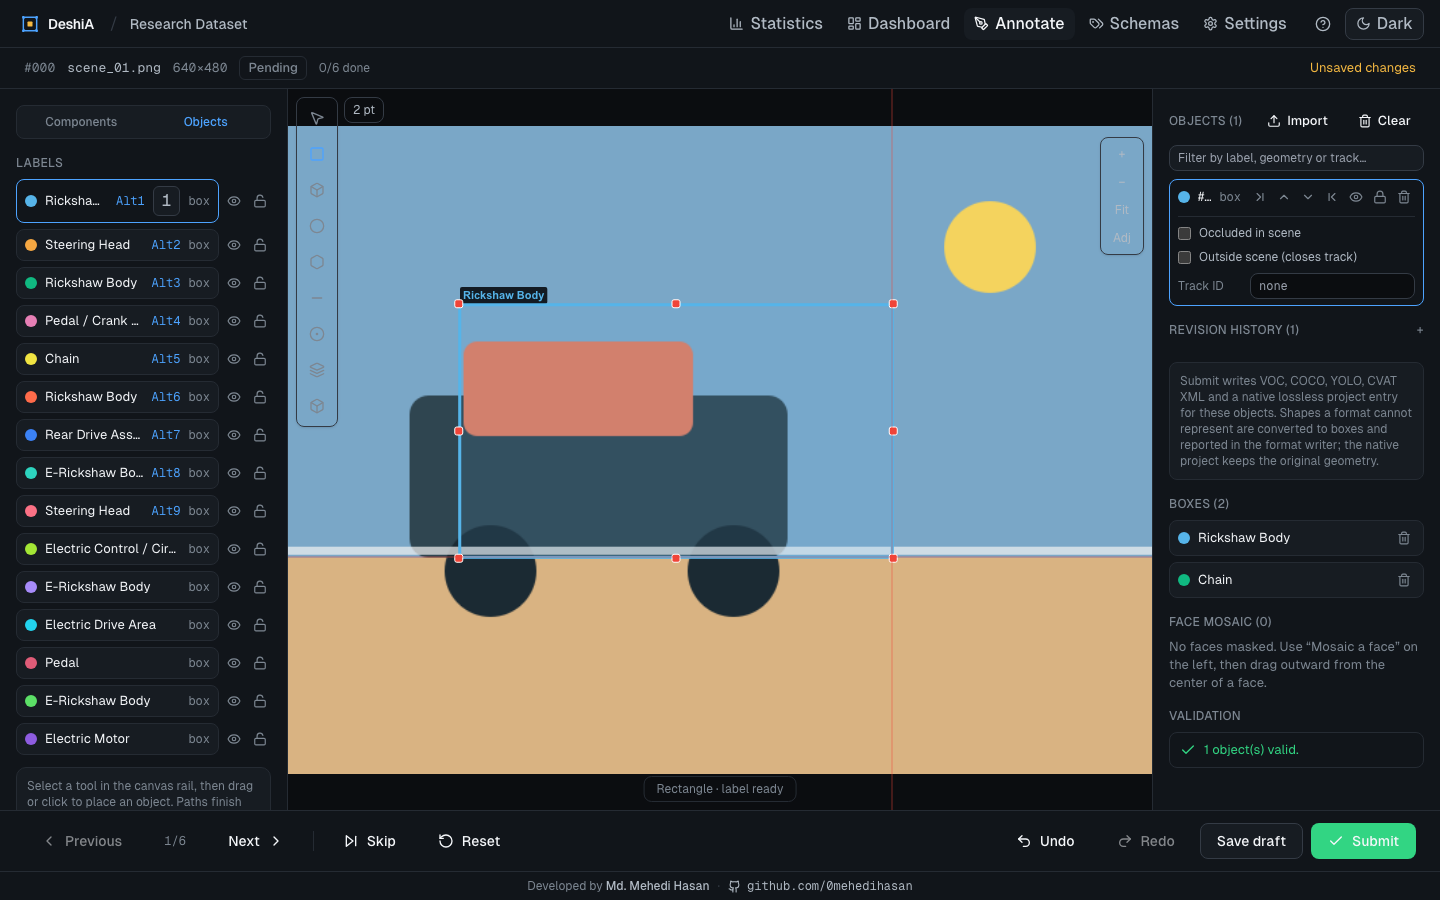
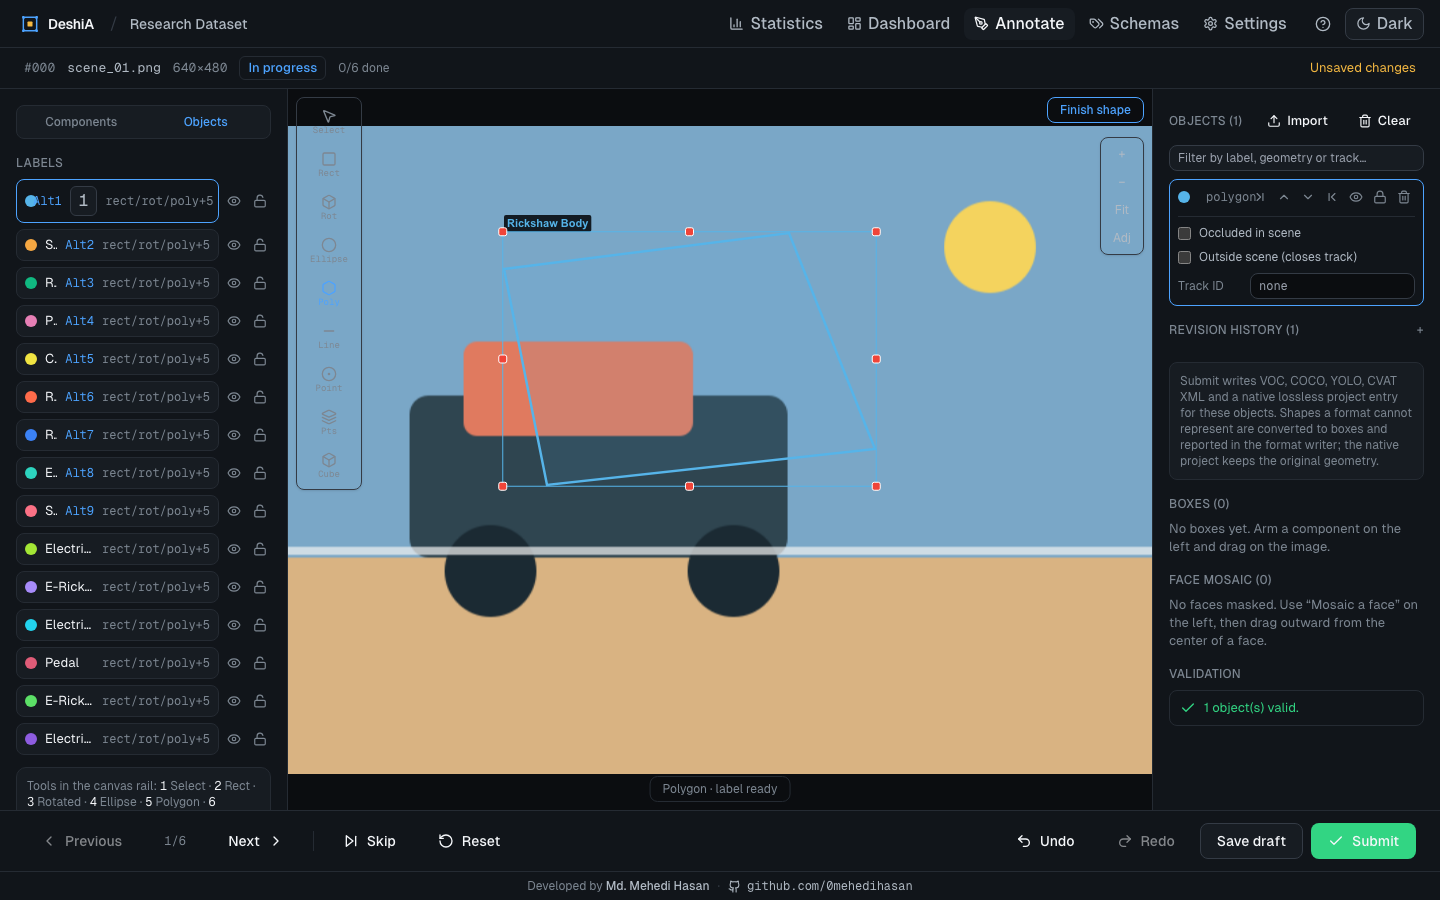
show shape tools and fix polygon drawing

diff --git a/src/features/annotation/annotation-workbench.tsx b/src/features/annotation/annotation-workbench.tsx
@@ -134,17 +134,35 @@ const OBJECT_TOOLS: Array<{
   key: ObjectTool;
   icon: React.ComponentType<{ className?: string }>;
   label: string;
+  short: string;
 }> = [
-  { key: 'select', icon: MousePointer2, label: 'Select' },
-  { key: 'box', icon: Square, label: 'Rectangle' },
-  { key: 'rotated_box', icon: Box, label: 'Rotated box' },
-  { key: 'ellipse', icon: Circle, label: 'Ellipse' },
-  { key: 'polygon', icon: Hexagon, label: 'Polygon' },
-  { key: 'polyline', icon: Minus, label: 'Polyline' },
-  { key: 'point', icon: CircleDot, label: 'Point' },
-  { key: 'points', icon: Layers, label: 'Points' },
-  { key: 'cuboid', icon: Box, label: 'Cuboid' },
+  { key: 'select', icon: MousePointer2, label: 'Select', short: 'Select' },
+  { key: 'box', icon: Square, label: 'Rectangle', short: 'Rect' },
+  { key: 'rotated_box', icon: Box, label: 'Rotated box', short: 'Rot' },
+  { key: 'ellipse', icon: Circle, label: 'Ellipse', short: 'Ellipse' },
+  { key: 'polygon', icon: Hexagon, label: 'Polygon', short: 'Poly' },
+  { key: 'polyline', icon: Minus, label: 'Polyline', short: 'Line' },
+  { key: 'point', icon: CircleDot, label: 'Point', short: 'Point' },
+  { key: 'points', icon: Layers, label: 'Points', short: 'Pts' },
+  { key: 'cuboid', icon: Box, label: 'Cuboid', short: 'Cube' },
 ];
+
+const GEOMETRY_SHORT: Record<string, string> = {
+  box: 'rect',
+  rotated_box: 'rot',
+  polygon: 'poly',
+  polyline: 'line',
+  point: 'point',
+  points: 'pts',
+  ellipse: 'ellipse',
+  cuboid: 'cube',
+};
+
+function shortGeometryTypes(kinds: readonly string[] | undefined): string {
+  if (!kinds || kinds.length === 0) return 'any';
+  const shown = kinds.slice(0, 3).map((kind) => GEOMETRY_SHORT[kind] ?? kind);
+  return kinds.length > 3 ? `${shown.join('/')}+${kinds.length - 3}` : shown.join('/');
+}
 
 /**
  * Turn a thrown action error into an annotator-facing message. A dead local
@@ -995,7 +1013,7 @@ export function AnnotationWorkbench({
                               </Badge>
                             )}
                             <span className="font-mono text-meta text-muted">
-                              {label.geometryTypes?.join('/') ?? 'any'}
+                              {shortGeometryTypes(label.geometryTypes)}
                             </span>
                           </span>
                         </button>
@@ -1043,9 +1061,16 @@ export function AnnotationWorkbench({
                 </ul>
               </div>
               <div className="rounded-lg border border-border bg-elevated p-2.5 text-meta text-muted">
-                Select a tool in the canvas rail, then drag or click to place an object. Paths
-                finish with a double-click or the Finish button. Drag vertices to refine. All
-                objects are saved with the draft.
+                Tools in the canvas rail: <span className="font-mono text-text">1</span> Select ·{' '}
+                <span className="font-mono text-text">2</span> Rect ·{' '}
+                <span className="font-mono text-text">3</span> Rotated ·{' '}
+                <span className="font-mono text-text">4</span> Ellipse ·{' '}
+                <span className="font-mono text-text">5</span> Polygon ·{' '}
+                <span className="font-mono text-text">6</span> Polyline ·{' '}
+                <span className="font-mono text-text">7</span> Point ·{' '}
+                <span className="font-mono text-text">8</span> Points ·{' '}
+                <span className="font-mono text-text">9</span> Cuboid. Drag for area shapes; click
+                to place path vertices, then double-click or press Finish. Drag vertices to refine.
               </div>
             </div>
           </div>
@@ -1365,20 +1390,21 @@ export function AnnotationWorkbench({
                 onImageError={handleFrameError}
               />
               <div className="bg-elevated/95 absolute left-2 top-2 flex flex-col gap-1 rounded-md border border-border-strong p-1 shadow">
-                {OBJECT_TOOLS.map(({ key, icon: Icon, label }, i) => (
+                {OBJECT_TOOLS.map(({ key, icon: Icon, label, short }, i) => (
                   <button
                     key={key}
                     type="button"
                     onClick={() => chooseTool(key)}
-                    title={`${label} (${i + 1})`}
+                    title={`${label} — press ${i + 1}`}
                     aria-label={label}
-                    className={`grid h-8 w-8 place-items-center rounded transition-colors ${
+                    className={`flex w-14 flex-col items-center gap-0.5 rounded px-1 py-1.5 transition-colors ${
                       objectTool === key
                         ? 'bg-primary/20 text-primary'
                         : 'text-muted hover:bg-elevated hover:text-text'
                     }`}
                   >
                     <Icon className="h-4 w-4" />
+                    <span className="font-mono text-[9px] leading-none">{short}</span>
                   </button>
                 ))}
               </div>

diff --git a/src/features/annotation/object-canvas.tsx b/src/features/annotation/object-canvas.tsx
@@ -279,6 +279,7 @@ export const ObjectCanvas = React.forwardRef<ObjectCanvasHandle, ObjectCanvasPro
 
     // ---- click-to-add paths (polygon / polyline / points) --------------------
     const [path, setPath] = React.useState<NormPoint[]>([]);
+    const lastPathClick = React.useRef<{ x: number; y: number; at: number } | null>(null);
     const pathTool = tool === 'polygon' || tool === 'polyline' || tool === 'points';
 
     const finishPath = React.useCallback(() => {
@@ -475,6 +476,22 @@ export const ObjectCanvas = React.forwardRef<ObjectCanvasHandle, ObjectCanvasPro
         if (!activeLabelId) return;
         const pos = stage.getPointerPosition();
         if (!pos) return;
+        // Double-click on the SAME spot finishes a path. Plain successive
+        // clicks elsewhere add vertices (a browser dblclick fires even when the
+        // pointer moved, so relying on the Stage dblclick event loses the path).
+        const now = Date.now();
+        const previous = lastPathClick.current;
+        if (
+          previous &&
+          now - previous.at < 400 &&
+          Math.hypot(pos.x - previous.x, pos.y - previous.y) < 8 &&
+          path.length >= (tool === 'polygon' ? 3 : 2)
+        ) {
+          lastPathClick.current = null;
+          finishPath();
+          return;
+        }
+        lastPathClick.current = { x: pos.x, y: pos.y, at: now };
         const candidateStagePoints = snapCandidates.map(toStage);
         let p = toNorm(pos);
         const nearest = candidateStagePoints.reduce<{ index: number; dist: number }>(
@@ -504,10 +521,6 @@ export const ObjectCanvas = React.forwardRef<ObjectCanvasHandle, ObjectCanvasPro
         if (pos && props.onSelectObjects) setSelectDraft({ a: pos, b: pos });
         props.onSelect(null);
       }
-    };
-
-    const onStageDblClick = () => {
-      if (pathTool) latestPath.current.finishPath();
     };
 
     // Esc cancels an in-progress path or rubber-band.
@@ -550,7 +563,6 @@ export const ObjectCanvas = React.forwardRef<ObjectCanvasHandle, ObjectCanvasPro
             width={size.width}
             height={size.height}
             onMouseDown={onStageDown}
-            onDblClick={onStageDblClick}
             onMouseMove={(e) => setCursor(e.target.getStage()?.getPointerPosition() ?? null)}
             onMouseLeave={() => setCursor(null)}
             onWheel={(e) => {

diff --git a/src/schemas/migrate.ts b/src/schemas/migrate.ts
@@ -1,3 +1,4 @@
+import { GEOMETRY_KINDS } from '@/core/geometry/types';
 import type { AnnotationSchema } from './types';
 import {
   SCHEMA_FORMAT_VERSION,
@@ -41,7 +42,9 @@ export function migrateFlatToRecursive(flat: AnnotationSchema): RecursiveSchema 
           id: viewId(flat.id, cls.key, view.key),
           legacyKey: view.key,
           children: view.components.map((comp) =>
-            createLabel(comp.label, ['box'], {
+            // The component workflow uses boxes; in the generalized Objects
+            // editor the same label can be drawn with any supported geometry.
+            createLabel(comp.label, [...GEOMETRY_KINDS], {
               id: compId(flat.id, cls.key, view.key, comp.key),
               legacyKey: comp.key,
               description: comp.hint,

diff --git a/src/schemas/recursive-schema.test.ts b/src/schemas/recursive-schema.test.ts
@@ -26,7 +26,9 @@ describe('flat -> recursive migration (safe, reference-preserving)', () => {
     const chain = findLabelByLegacyKey(rec.roots, 'chain');
     expect(chain?.name).toBe('Chain');
     expect(chain?.kind).toBe('label');
-    expect(chain?.geometryTypes).toEqual(['box']);
+    expect(chain?.geometryTypes).toContain('box');
+    expect(chain?.geometryTypes).toContain('polygon');
+    expect(chain?.geometryTypes).toContain('cuboid');
   });
 
   it('uses deterministic ids (idempotent) and renaming never changes an id', () => {

diff --git a/CHANGELOG.md b/CHANGELOG.md
@@ -11,6 +11,10 @@ and this project adheres to [Semantic Versioning](https://semver.org/spec/v2.0.0
 
 - Initialized per-label visibility/lock state before the canvas derives its
   objects, removing a runtime error when switching to the Objects editor.
+- Path drawing no longer loses vertices when successive clicks trigger the
+  browser's dblclick event; double-click-to-finish now requires the same spot.
+- Migrated built-in labels allow every geometry kind in the Objects editor, and
+  the tool rail shows readable shape names instead of icon-only buttons.
 
 ### Added — full CVAT-style toolset (single-user, DeshiA branding)
 
